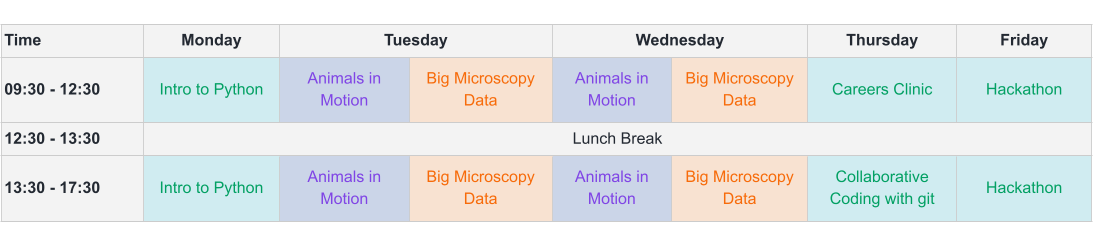
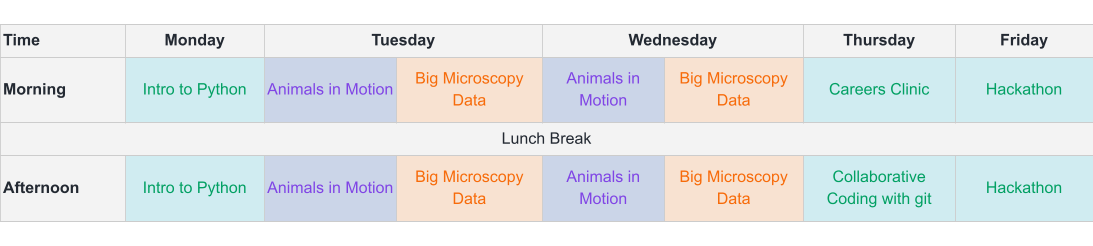
updated week schedule

diff --git a/docs/source/open-software-week/index.md b/docs/source/open-software-week/index.md
@@ -15,6 +15,9 @@ place in **August 2025** in **London, UK**. This event will bring together resea
 
 ## Schedule
 
+Sessions will run daily between **10:00** and **17:00**.
+Here is an overview of the whole week:
+
 ![](../_static/osw_images/schedule-2025.png)
 
 - **Tuesday** and **Wednesday** will be dedicated to the two
